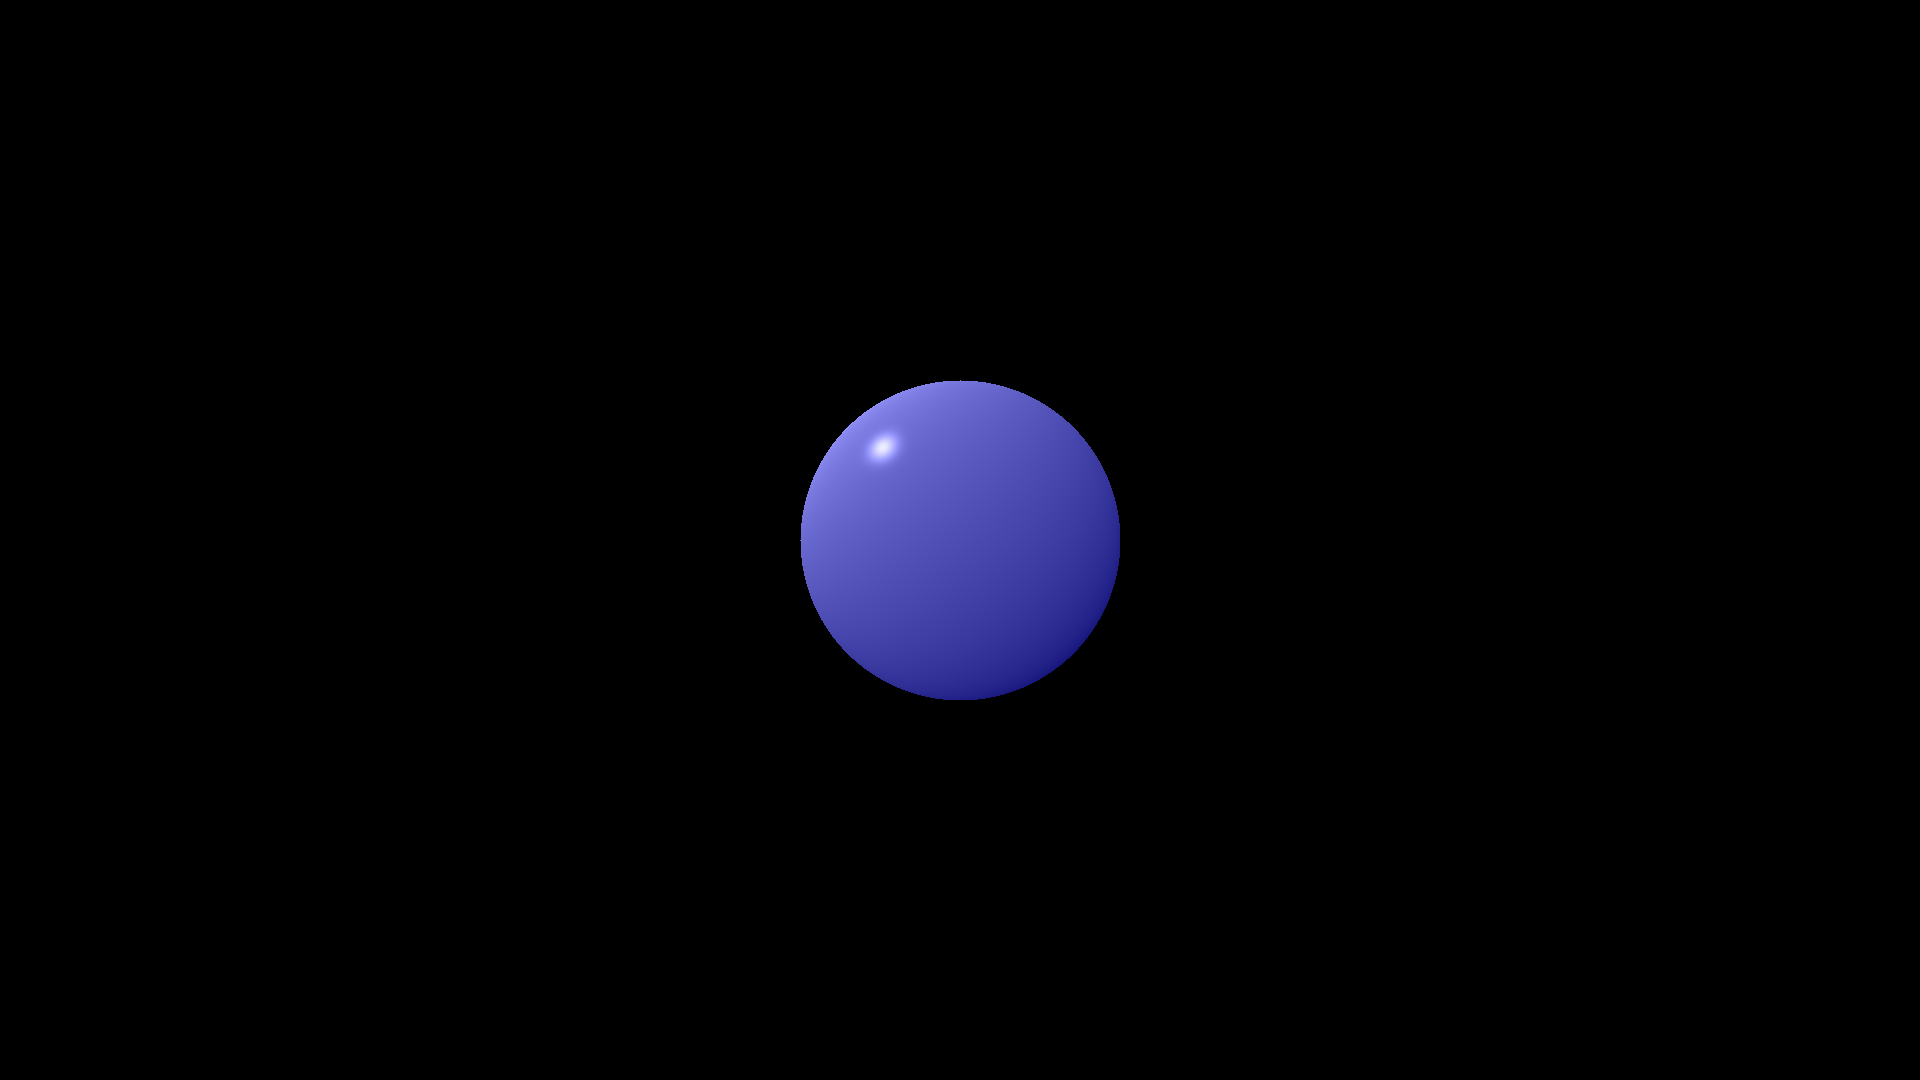
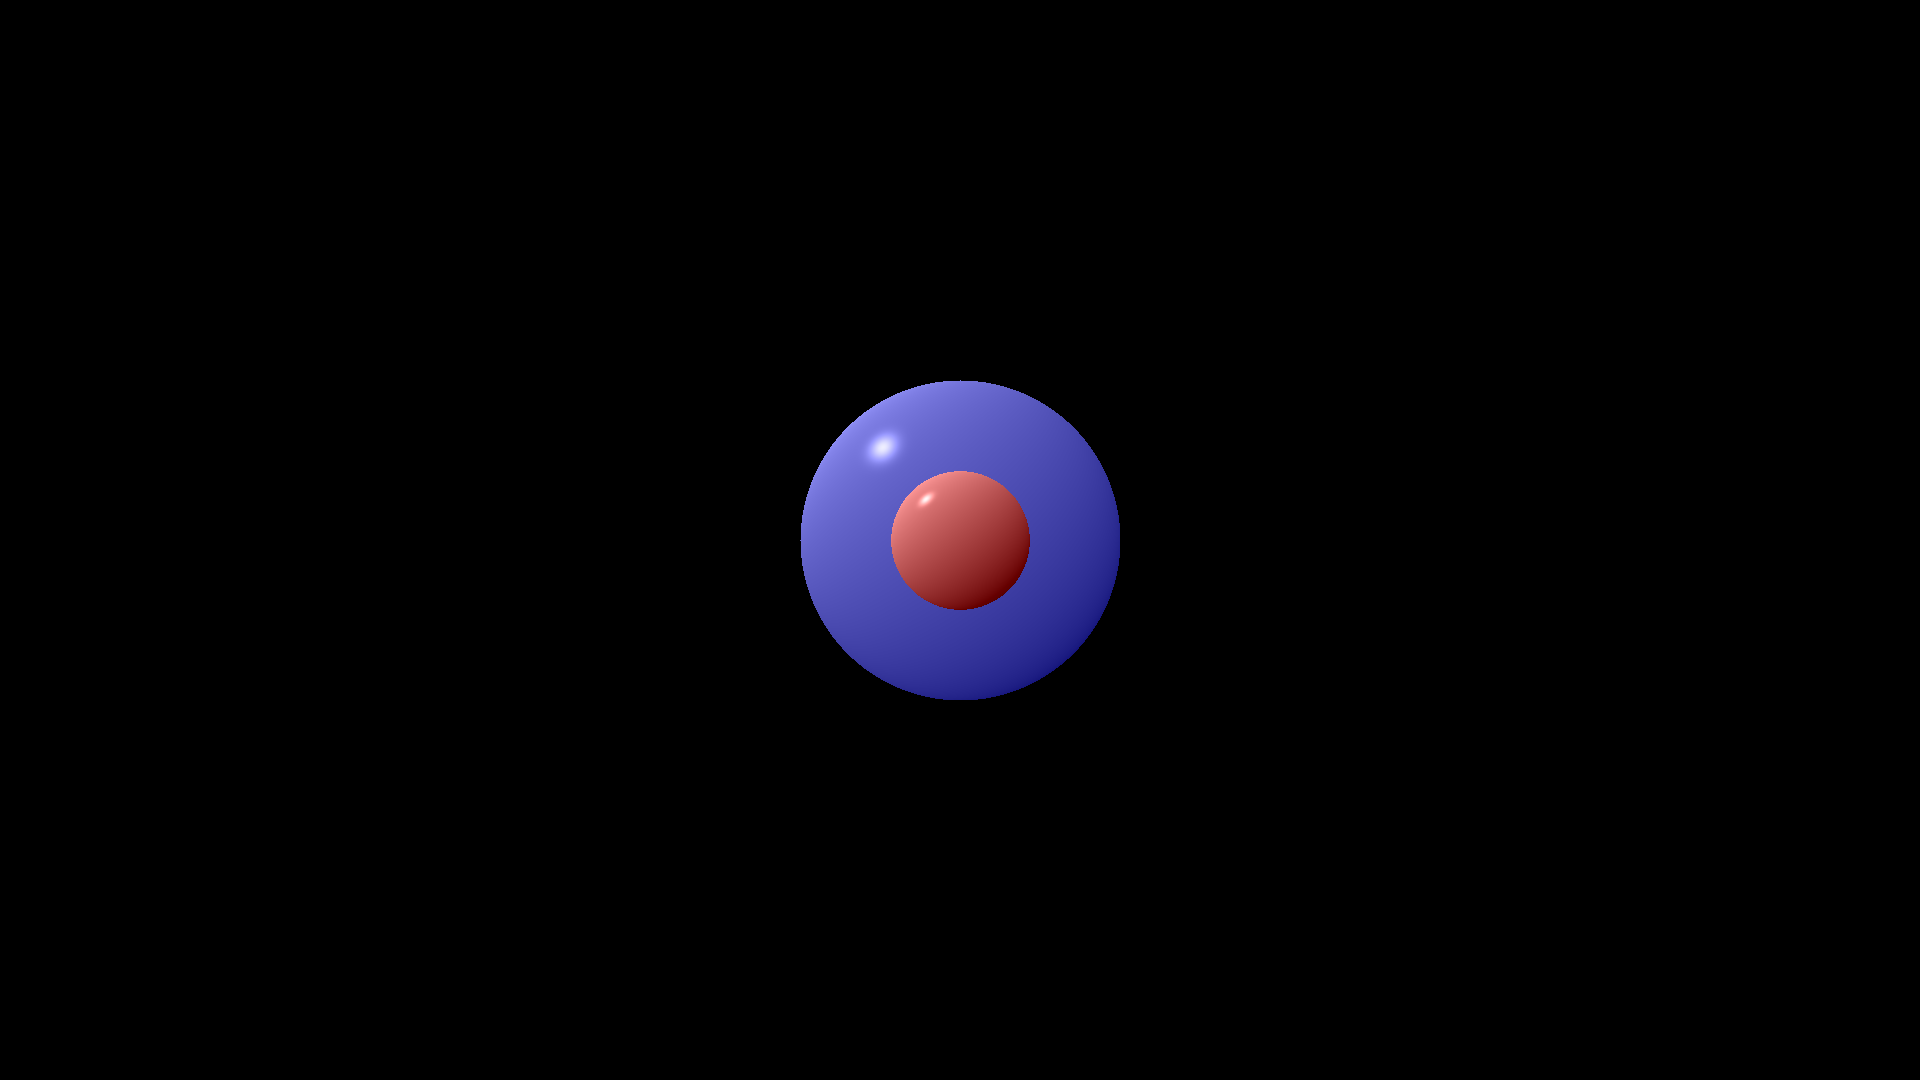
multiple scene objects w/ closest ray hit priority

Changed region(s): [[0.4375, 0.4278, 0.5625, 0.5806]]

diff --git a/sandbox/rusty_tracer/src/main.rs b/sandbox/rusty_tracer/src/main.rs
@@ -56,7 +56,8 @@ fn main() {
     //-- TEST: Ray operations and intersection
     let mut r1 = Ray{origin: Point{x:0.0,y:0.0,z:-5.0}, dir: Vec3{x:0.0, y:0.0, z:1.0}};   
     let s1 = Sphere{cen: Point{x:0.0, y:0.0, z:0.0}, r: 4.0, def_color: Point{x: 0.2, y: 0.2, z: 0.6}};
-
+    let s2 = Sphere{cen: Point{x:0.0, y:0.0, z:-4.0}, r: 0.5, def_color: Point{x: 0.6, y: 0.2, z: 0.2}};
+   
     println!("\n\nRay Operations and Sphere Hit Test...\n-------------------------------------");
     println!("Sphere: {}", s1.stringy());
     println!("\n2x hit ray: {}", r1.stringy());
@@ -94,32 +95,46 @@ fn main() {
     //-- scene 
     let mut scene: Vec<&Sphere> = Vec::new();
     scene.push(&s1);
+    scene.push(&s2);
     //scene.push(&bulb);
 
     //-- launch rays
     //- launches left->right | top->bottom by step size (prop to img size)
     //NOTE: not factoring in camera focal length
     let mut cool_ray = Ray{origin: cam.pos, dir: Vec3{x: -0.5 * cam.w, y: 0.5 * cam.h, z: 1.0}};
-    //cool_ray.dir = cool_ray.dir.unit();
-
+    let mut closest_hit: HitInfo = HitInfo{ip: Point::default(), norm: Point::default(), obj: &s1};     //-- dummy init to avoid compile errors  
     for y in 0..img_h {
         for x in 0..img_w {
-            for obj in &scene{
-                //println!("Fired ray: {}", cool_ray.stringy());
-                match obj.hits(&cool_ray) {
+            
+            let mut first_hit: bool = true;
+            let mut color: Color = Color::default();
+
+            for obj in &scene{                          //-- for each object in scene....
+                match obj.hits(&cool_ray) {             //- check for a hit
                 Some(hit_rec) => {
 
-                    let color = phong_single_src(&hit_rec, &cam, &bulb);
-                    img_buffer.push(color.r); img_buffer.push(color.g); img_buffer.push(color.b); 
+                    if first_hit {                      //- if first hit for this ray, init hit ptr
+                        first_hit = false;
+                        closest_hit = hit_rec;
+                    } else {                            //- if not, determine closer hit to cam and set
+                        if (hit_rec.ip - cam.pos).mag() < (closest_hit.ip - cam.pos).mag() {
+                            closest_hit = hit_rec;
+                        }
+                    }
+
+                    color = phong_single_src(&hit_rec, &cam, &bulb);
+                    //img_buffer.push(color.r); img_buffer.push(color.g); img_buffer.push(color.b); 
                 }
 
                 None => {
-                    img_buffer.push(0); img_buffer.push(0); img_buffer.push(0);
+                    //img_buffer.push(0); img_buffer.push(0); img_buffer.push(0);
                 }
                    
                 }
             }
-           
+
+            //--write color to buffer
+            img_buffer.push(color.r); img_buffer.push(color.g); img_buffer.push(color.b);                
             cool_ray.dir.x += step;
         }
         
@@ -182,7 +197,7 @@ trait Hittable{
 }
 
 //---- Color
-#[derive(Copy, Clone)]
+#[derive(Copy, Clone, Default)]
 struct Color{
     r: u8,
     g: u8,
@@ -191,7 +206,7 @@ struct Color{
 
 //---- Linear Algebra Structs + Functions
 //--- Point/Vec3 Struct + Imp
-#[derive(Copy, Clone)]
+#[derive(Copy, Clone, Default)]
 struct Point{
     x: f64,
     y: f64,
@@ -283,6 +298,7 @@ struct Ray{
 
 //---- Sphere: follows eq (x-h)^2 + (y-i)^2 + (z-j)^2 = R^2
 //-- vector form: ||x - c||^2 = R^2
+#[derive(Default)]
 struct Sphere{
     cen: Point,
     r: f64,
@@ -322,6 +338,7 @@ struct Sphere{
 }
 
 //---- Hit Info -----
+#[derive(Copy, Clone)]
 struct HitInfo<'a>{ 
     ip: Point,
     norm: Vec3,
